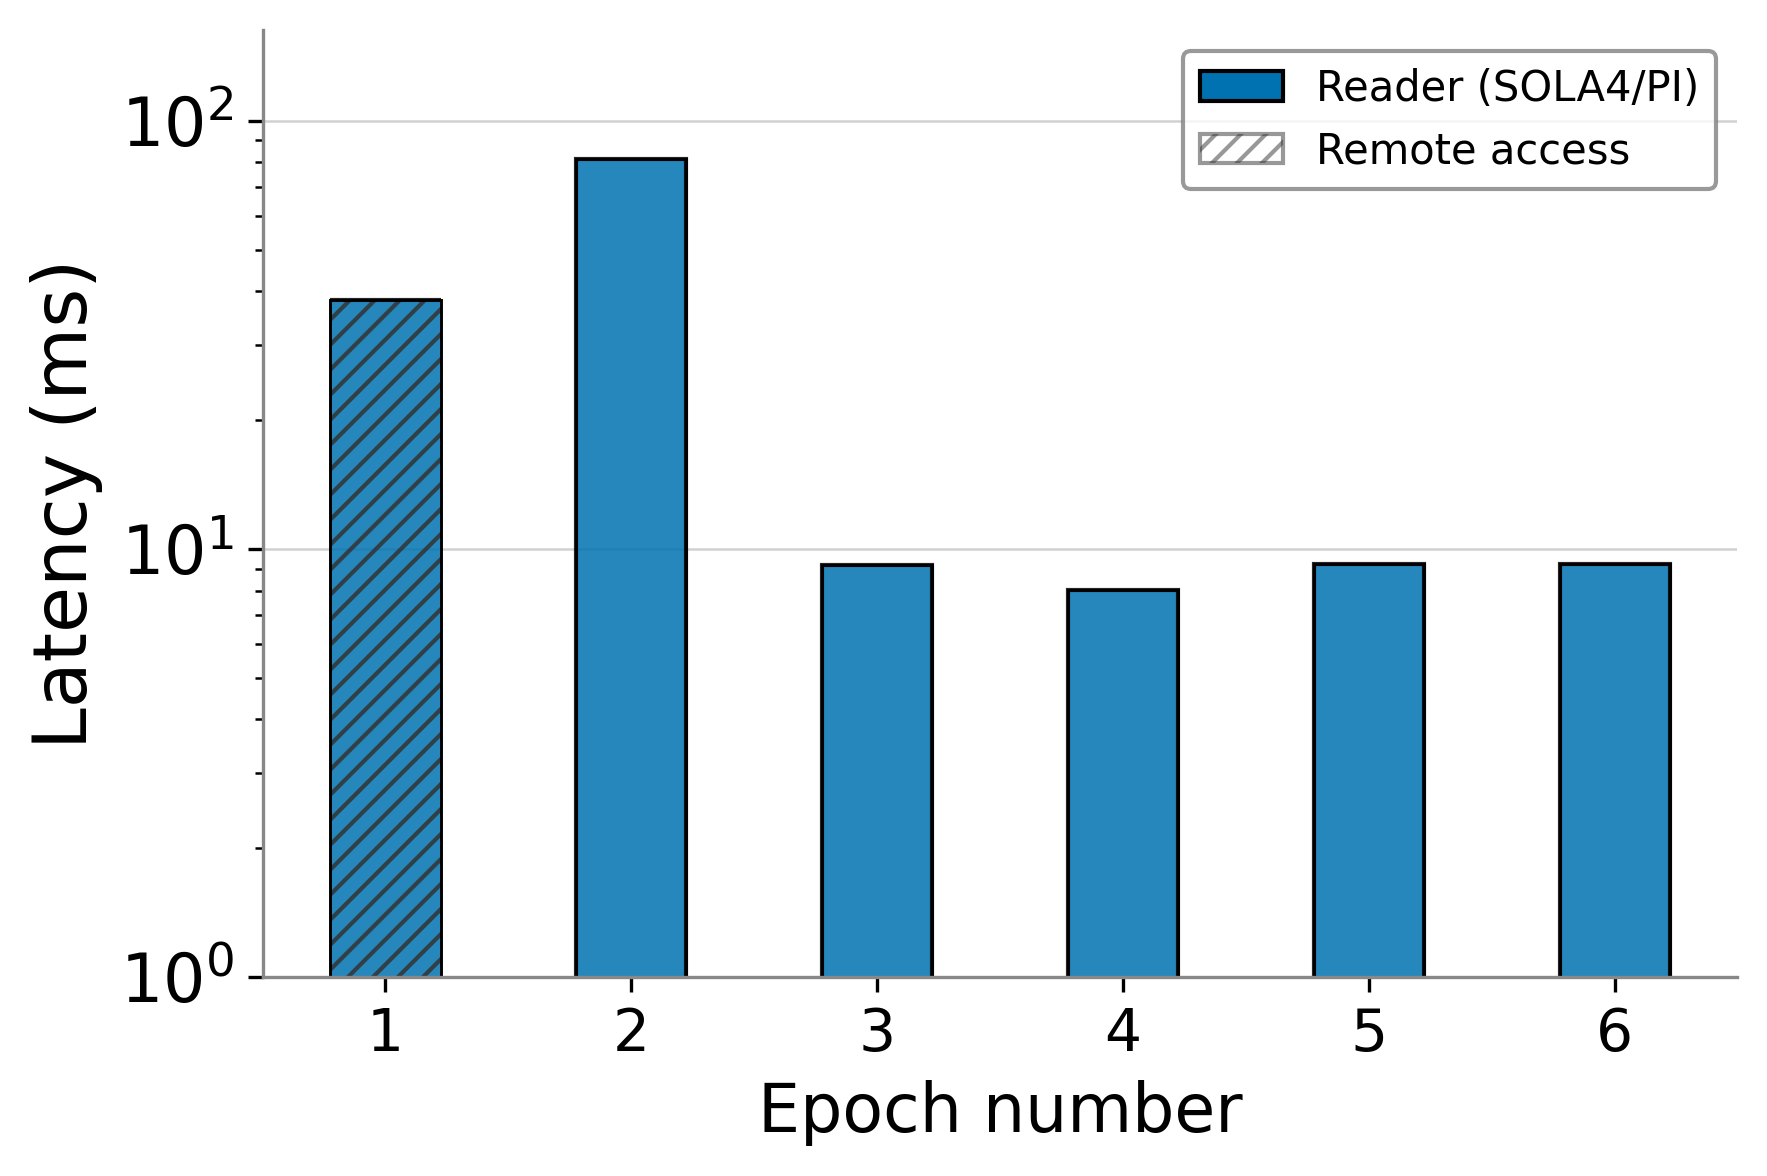
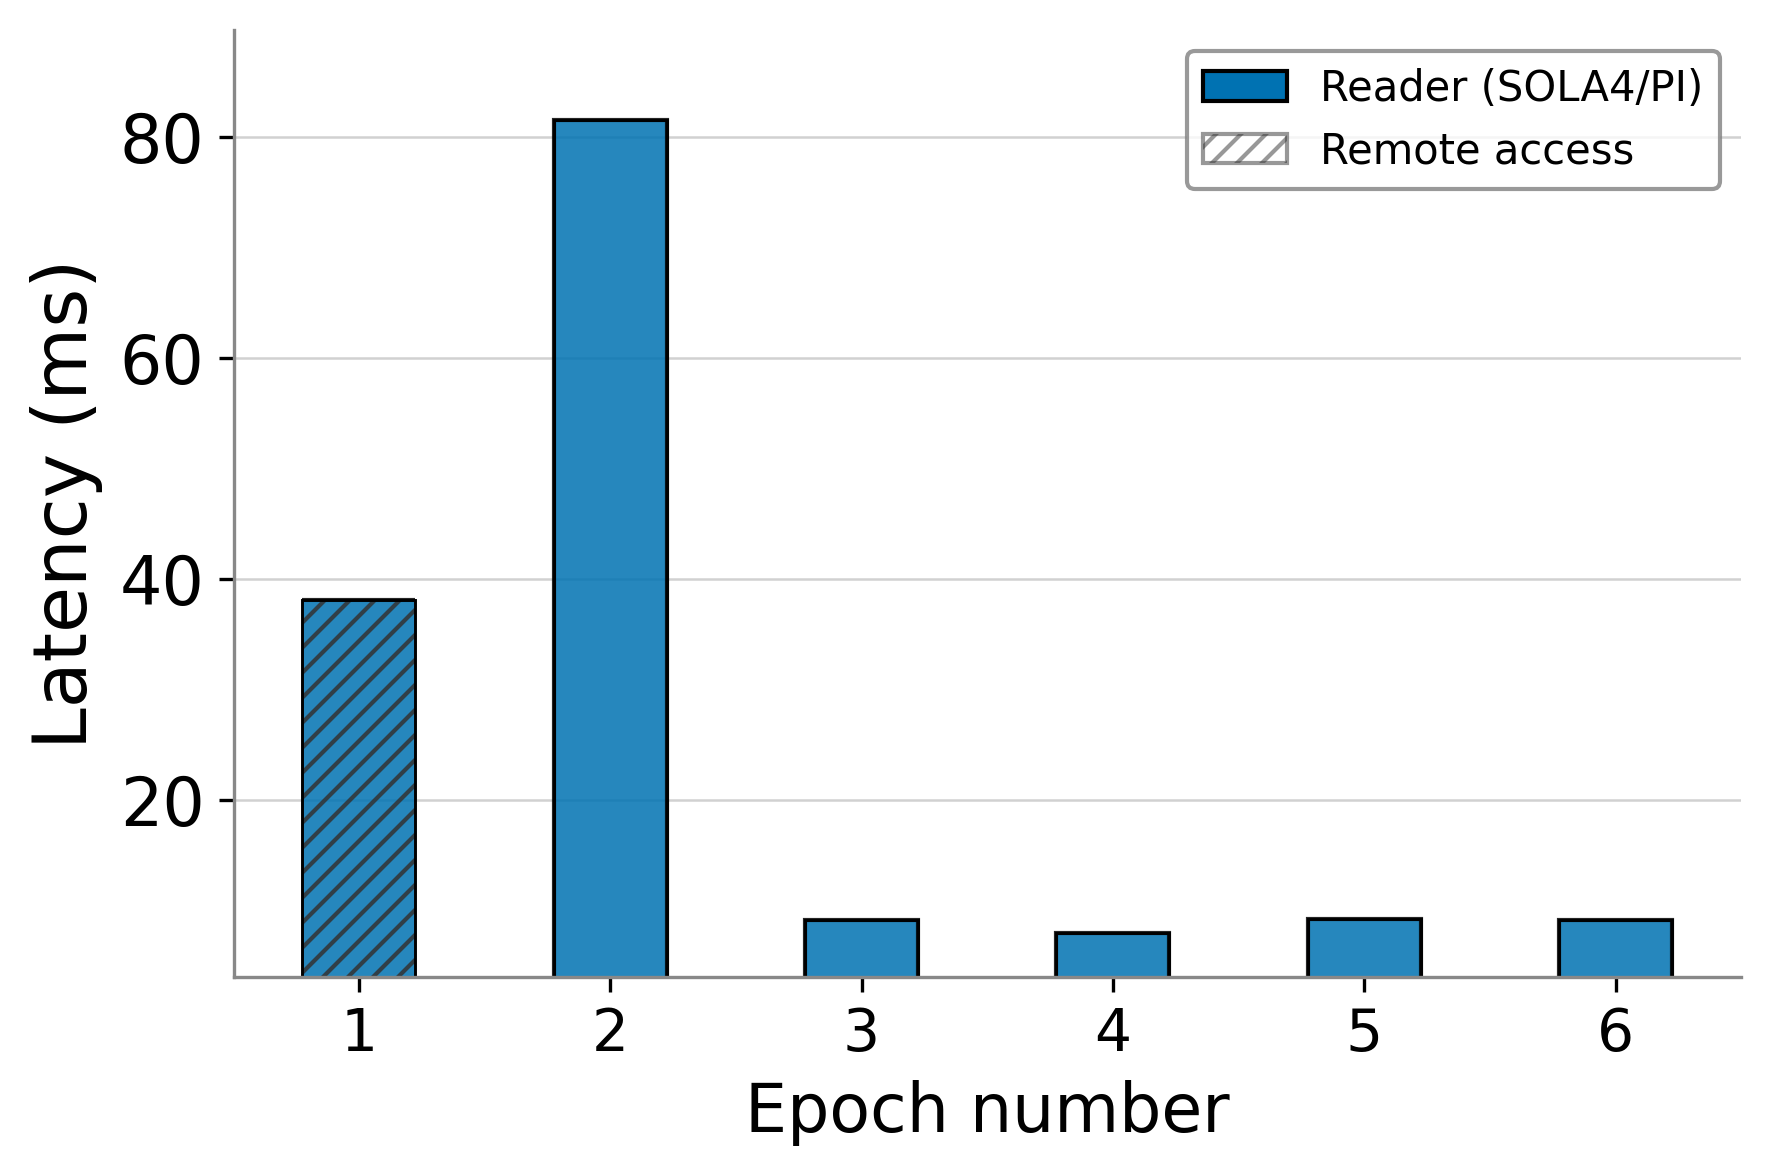
changed file generation script to extract zip files and removed loglog

diff --git a/convergence_test/code/heterogeneous.py b/convergence_test/code/heterogeneous.py
@@ -3,6 +3,8 @@
 import argparse
 import inspect
 import sys
+import tempfile
+import zipfile
 from pathlib import Path
 
 import matplotlib.pyplot as plt
@@ -16,9 +18,6 @@ import data_processor
 from plots import latency
 
 
-DEFAULT_EXPERIMENT = (
-    "heterogeneous/heterogeneous_20261110_110708/20261110_110708"
-)
 DEFAULT_READ_CSV = "results_log_54321_2026_11_10_12_08_04.csv"
 OUTPUT_NAME = "execution_time_analysis"
 
@@ -44,36 +43,15 @@ def load_read_dataframe(experiment_dir: Path, csv_name: str) -> pd.DataFrame:
     return dataframe
 
 
-def main() -> None:
-    parser = argparse.ArgumentParser(
-        description="Plot per-epoch read latency for an unpacked heterogeneous run."
-    )
-    parser.add_argument(
-        "experiment",
-        nargs="?",
-        default=DEFAULT_EXPERIMENT,
-        help="Experiment directory relative to convergence_test/data",
-    )
-    parser.add_argument(
-        "--csv",
-        default=DEFAULT_READ_CSV,
-        help="Read-results CSV filename inside the experiment directory",
-    )
-    parser.add_argument(
-        "--max-epochs",
-        type=int,
-        default=6,
-        help="Maximum number of epochs to show (default: 6)",
-    )
-    args = parser.parse_args()
-
-    base_dir = Path(inspect.getfile(inspect.currentframe())).parent
-    experiment_dir = (base_dir / config.data_dir / args.experiment).resolve()
-    if not experiment_dir.is_dir():
-        raise FileNotFoundError(f"Experiment directory not found: {experiment_dir}")
-
-    dataframe = load_read_dataframe(experiment_dir, args.csv)
-    csv_data = {args.csv: dataframe}
+def plot_experiment(
+    experiment_dir: Path,
+    output_name: str,
+    csv_name: str,
+    max_epochs: int,
+    base_dir: Path,
+) -> None:
+    dataframe = load_read_dataframe(experiment_dir, csv_name)
+    csv_data = {csv_name: dataframe}
 
     log_data = {}
     for node_name in ("cloud", "edge"):
@@ -83,7 +61,7 @@ def main() -> None:
     parsed_log = data_processor.parse_log(log_data)
     dataframes = data_processor.parse_dfs(csv_data, parsed_log)
     if not dataframes or dataframes[0].empty:
-        raise ValueError(f"No plottable read operations found in {experiment_dir / args.csv}")
+        raise ValueError(f"No plottable read operations found in {experiment_dir / csv_name}")
 
     # The client starts independently of the Ermes migration cycle. Use the
     # cloud's policy transitions as the epoch boundaries so requests around a
@@ -112,7 +90,7 @@ def main() -> None:
     ).reset_index(drop=True)
 
     output_dir = (
-        base_dir / config.out_dir / "heterogeneous" / experiment_dir.name
+        base_dir / config.out_dir / "heterogeneous" / output_name
     ).resolve()
     output_dir.mkdir(parents=True, exist_ok=True)
     pdf_dir = output_dir / "pdf"
@@ -124,7 +102,7 @@ def main() -> None:
         dataframes,
         "heterogeneous",
         {134: "SOLA4", 243: "SOLA4/PI"},
-        max_rounds=args.max_epochs,
+        max_rounds=max_epochs,
         ax=ax,
         draw_legend=False,
     )
@@ -132,16 +110,15 @@ def main() -> None:
         raise RuntimeError("Unable to generate the heterogeneous latency plot")
 
     _, legend_elements, max_data_height = result
-    ax.set_yscale("log")
+    # ax.set_yscale("log")
     positive_durations = dataframes[0].loc[
         dataframes[0]["Duration"] > 0, "Duration"
     ]
     if positive_durations.empty:
         raise ValueError("Latency values must be positive for logarithmic scaling")
     ax.set_ylim(positive_durations.min() * 0.8, max_data_height * 1.1)
-    ax.yaxis.set_major_locator(LogLocator(base=10, subs=(1.0,), numticks=10))
-    ax.yaxis.set_major_formatter(LogFormatterMathtext(base=10))
-    ax.set_ylim(1, max_data_height * 2)
+    # ax.yaxis.set_major_locator(LogLocator(base=10, subs=(1.0,), numticks=10))
+    # ax.yaxis.set_major_formatter(LogFormatterMathtext(base=10))
     ax.set_ylabel("Latency (ms)", fontsize=18)
     ax.tick_params(axis="y", labelsize=16)
     if legend_elements:
@@ -159,8 +136,85 @@ def main() -> None:
     fig.savefig(png_path, dpi=300, bbox_inches="tight", facecolor="white")
     fig.savefig(pdf_path, bbox_inches="tight", facecolor="white")
     plt.close(fig)
-
     print(f"Done. Figure saved to:\n  {png_path}\n  {pdf_path}")
+
+
+def process_archive(
+    archive_path: Path,
+    csv_name: str,
+    max_epochs: int,
+    base_dir: Path,
+) -> None:
+    output_name = archive_path.stem
+    if output_name.startswith("heterogeneous_"):
+        output_name = output_name[len("heterogeneous_"):]
+
+    with tempfile.TemporaryDirectory(prefix="heterogeneous_") as temporary_dir:
+        extraction_dir = Path(temporary_dir)
+        with zipfile.ZipFile(archive_path) as archive:
+            archive.extractall(extraction_dir)
+
+        csv_paths = list(extraction_dir.rglob(csv_name))
+        if len(csv_paths) != 1:
+            raise ValueError(
+                f"Expected one {csv_name} in {archive_path}, found {len(csv_paths)}"
+            )
+        plot_experiment(
+            csv_paths[0].parent,
+            output_name,
+            csv_name,
+            max_epochs,
+            base_dir,
+        )
+
+
+def main() -> None:
+    parser = argparse.ArgumentParser(
+        description="Plot per-epoch read latency for an unpacked heterogeneous run."
+    )
+    parser.add_argument(
+        "experiment",
+        nargs="?",
+        default=None,
+        help="Optional experiment directory or ZIP relative to convergence_test/data; "
+        "without it, all heterogeneous ZIP files are processed",
+    )
+    parser.add_argument(
+        "--csv",
+        default=DEFAULT_READ_CSV,
+        help="Read-results CSV filename inside the experiment directory",
+    )
+    parser.add_argument(
+        "--max-epochs",
+        type=int,
+        default=6,
+        help="Maximum number of epochs to show (default: 6)",
+    )
+    args = parser.parse_args()
+
+    base_dir = Path(inspect.getfile(inspect.currentframe())).parent
+    data_root = (base_dir / config.data_dir / "heterogeneous").resolve()
+    if args.experiment is None:
+        archives = sorted(data_root.glob("*.zip"))
+        if not archives:
+            raise FileNotFoundError(f"No heterogeneous ZIP files found in {data_root}")
+        for archive_path in archives:
+            process_archive(archive_path, args.csv, args.max_epochs, base_dir)
+        return
+
+    experiment_path = (base_dir / config.data_dir / args.experiment).resolve()
+    if experiment_path.is_file() and experiment_path.suffix.lower() == ".zip":
+        process_archive(experiment_path, args.csv, args.max_epochs, base_dir)
+    elif experiment_path.is_dir():
+        plot_experiment(
+            experiment_path,
+            experiment_path.name,
+            args.csv,
+            args.max_epochs,
+            base_dir,
+        )
+    else:
+        raise FileNotFoundError(f"Experiment directory or ZIP not found: {experiment_path}")
 
 
 if __name__ == "__main__":

diff --git a/convergence_test/README.md b/convergence_test/README.md
@@ -77,10 +77,11 @@ grouped-bar plot of per-epoch average latency with a logarithmic latency axis:
 python3 code/heterogeneous.py
 ```
 
-By default, the script reads
-`data/heterogeneous/heterogeneous_20261110_110708/20261110_110708` and
-`results_log_54321_2026_11_10_12_08_04.csv`. The output is written to the
-corresponding `output_img/heterogeneous/` directory. Override the experiment
-directory, CSV filename, or displayed epoch count with the positional argument,
-`--csv`, and `--max-epochs`. Epoch assignment uses the Ermes policy-transition
-timestamps from `cloud/general.log` (falling back to `edge/general.log`).
+By default, the script extracts and processes every
+`data/heterogeneous/*.zip`, writing each figure under its matching timestamp
+directory in `output_img/heterogeneous/`. Archives are extracted into temporary
+directories and removed automatically when processing finishes. An explicit
+experiment directory or ZIP can be supplied as the positional argument.
+Override the CSV filename or displayed epoch count with `--csv` and
+`--max-epochs`. Epoch assignment uses the Ermes policy-transition timestamps
+from `cloud/general.log` (falling back to `edge/general.log`).
